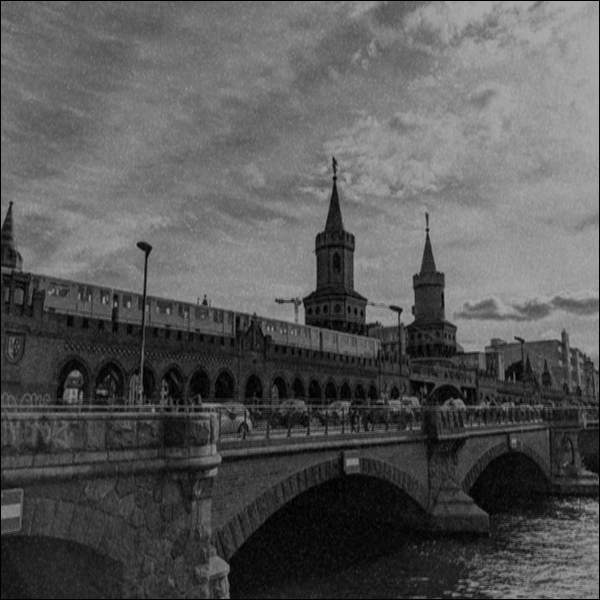
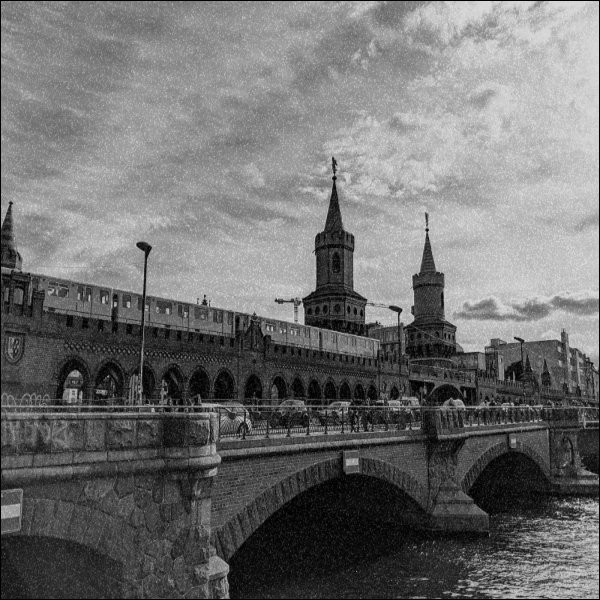
Updated gaussian kernels

diff --git a/Filtering/Code/Filters.cpp b/Filtering/Code/Filters.cpp
@@ -8,8 +8,7 @@ Filters::Filters() {
 	this->kSize = 3;
 	this->meanX = 0;
 	this->meanY = 0;
-	this->stdDevX = 25;
-	this->stdDevY = 25;
+	this->stdDev = 25;
 }
 
 
@@ -26,7 +25,7 @@ void Filters::DenoiseImage(Mat& origImg, Mat& noiseImg){
 
 	/*openCV implementation*/
 	// gaussian
-	cv::GaussianBlur(noiseImg, output, cv::Size(this->kSize, this->kSize), this->meanX, this->stdDevX);
+	cv::GaussianBlur(noiseImg, output, cv::Size(this->kSize, this->kSize), this->meanX, this->stdDev);
 	cv::imshow("opencv_gaussian", output);
 	imwrite("openCV_Gaussian.png", output);
 	cout << "-------------------------------------------------------------" << endl;
@@ -95,11 +94,15 @@ Mat Filters::BoxFilter(Mat& img) {
 /*1D Gaussian Kernel*/
 Mat Filters::GaussianKernel1D() {
 	Mat kernel = Mat::ones(1, kSize, CV_32FC1);
+	float k = 2.5;
+	float rmax = sqrt(2 * pow(kSize / 2, 2));
+	float sigma = rmax / k;
 	float sum = 0.;
 	for (int i = -kSize / 2; i <= kSize / 2; i++) {
 		float denominator, power;
-		denominator = sqrt(2 * CV_PI)*this->stdDevX;
-		power = pow(((i) - this->meanX), 2) / (2 * pow(this->stdDevX, 2));
+		denominator = sqrt(2 * CV_PI)*sigma;
+		//denominator = 1;
+		power = pow(((i) - this->meanX), 2) / (2 * pow(sigma, 2));
 		kernel.at<float>(i + kSize / 2) = exp(-power) / denominator;
 		sum = sum + kernel.at<float>(i + kSize / 2);
 	}
@@ -111,14 +114,18 @@ Mat Filters::GaussianKernel1D() {
 /*2D Gaussian Kernel*/
 Mat Filters::GaussianKernel2D() {
 	Mat kernel = Mat::ones(kSize, kSize, CV_32FC1);
+	float k = 2.5;
+	float rmax = sqrt(2 * pow(kSize / 2, 2));
+	float sigma = rmax / k;
 	float sum = 0.0;
 	for (int r = -kSize / 2; r <= kSize / 2; r++) {
 		for (int c = -kSize / 2; c <= kSize / 2; c++) {
 			float denominator, power, xDist, yDist;
-			denominator = 2 * CV_PI * this->stdDevX * this->stdDevY;
+			denominator = 2 * CV_PI * sigma * sigma;
+			//denominator = 1;
 			xDist = pow(((r) - this->meanX), 2);
 			yDist = pow(((c) - this->meanY), 2);
-			power = 0.5*((xDist / pow(this->stdDevX, 2)) + (yDist / pow(this->stdDevY, 2)));
+			power = 0.5*((xDist / pow(sigma, 2)) + (yDist / pow(sigma, 2)));
 			kernel.at<float>(r + kSize / 2, c + kSize / 2) = exp(-power) / denominator;
 			sum += kernel.at<float>(r + kSize / 2, c + kSize / 2);
 		}
@@ -148,7 +155,8 @@ Mat Filters::GaussFilter(Mat& img) {
 }
 
 Mat Filters::GaussFilterSeparable(Mat& img) {
-	Mat filtImg = Mat::ones(img.size(), img.type());
+	//Mat filtImg = Mat::ones(img.size(), img.type());
+	Mat filtImg = img.clone();
 	Mat temp = filtImg.clone();
 	Mat firstConv = filtImg.clone();
 	Mat secondConv = filtImg.clone();
